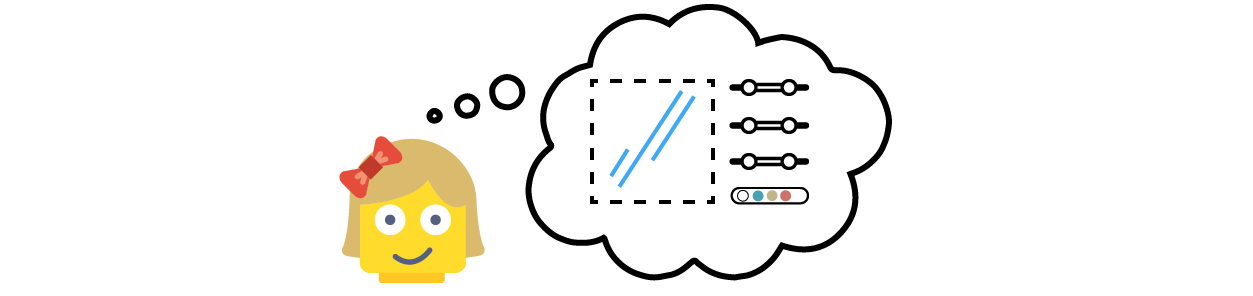
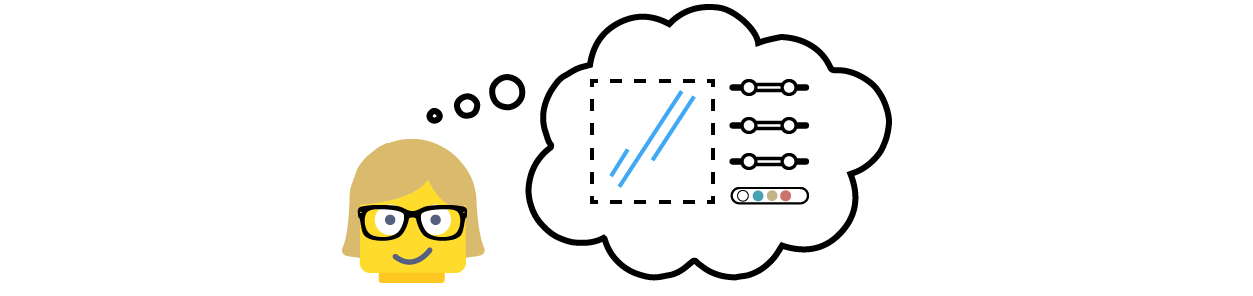
3.3 Paty Specific Comments anatomy of Each Stage
Wording diferences,
making girls in images a little bit older by adding glasses

Changed region(s): [[0.249, 0.4561, 0.3735, 0.8209]]

diff --git a/01-introduction/01-02_generative-design/01-02-03_what-goes-into-a-generative-design-process/01-02-03-01_anatomy-of-each-stage.md b/01-introduction/01-02_generative-design/01-02-03_what-goes-into-a-generative-design-process/01-02-03-01_anatomy-of-each-stage.md
@@ -1,6 +1,6 @@
 # Anatomy of each stage
 
-Each of these stages can be further broken down into _`define`_, _`run`_ and _`results`_ steps. The _`define`_ step is the responsibility of the designer whilst the _`run`_ & _`results`_ steps are performed by the machine.
+Each of these stages can be further broken down into _`define`_, _`run`_ and _`results`_ steps. The _`define`_ step is the responsibility of the designer while the _`run`_ & _`results`_ steps are performed by the machine.
 
 Using this breakdown, let's look at what the _`Generate`_ stage would entail.
 
@@ -10,16 +10,16 @@ Using this breakdown, let's look at what the _`Generate`_ stage would entail.
 
 For the _`define`_ step, the expertise of the designer is needed to
 
-* establish the generation algorithm: the logic defining how designs are generated, which may include things like constraints, rules, etc.
-* provide the generation parameters : the variables or inputs needed by the previously-defined algorithm
+* establish the generation algorithm: the logic defining how designs are generated, which may include things like constraints and rules.
+* provide the generation parameters: the variables or inputs needed by the previously-defined algorithm
 
-This _`define`_ step is present and vital for all stages of the generative design process, and the validity of outputs is reliant on the quality of the designer's contribution. Only with clear and concise logic, will the machine be able to provide suitable outputs.
+This _`define`_ step is present and vital for all stages of the generative design process, and the validity of outputs is reliant on the quality of the designer's contribution. With clear and concise logic, the computer can provide suitable outputs.
 
 ### Run
 
 <img src="../../../assets/intro/anatomy2.png" style="width:200px;"/>
 
-Once everything is defined in the algorithms & accompanying parameters, the machine begins to _`run`_, meaning it starts to generate different designs options. This process might happen locally on the designer's computer or, for more intensive calculations, run using cloud computing.
+Once everything is defined in the algorithms & accompanying parameters, the machine begins to _`run`_, meaning it starts to generate different design options. This process might happen locally on the designer's computer or, for more intensive calculations, run using cloud computing.
 
 ### Results
 
@@ -29,14 +29,14 @@ Things that are generated in the run step are the final results or outputs of ea
 
 ## Overall process
 
-We can map these stages & steps together in a single diagram to visualize the order they happen in and the dependencies between them.
+We can map these stages and steps together in a single diagram, this way we are able to visualize the order of each stage and their dependencies.
 
 <img src="../../../assets/intro/anatomy4.png" style="width:200px;"/>
 
-The diagram above should clearly illustrate how
+The diagram illustrates the following:
 
-* each stage & step are dependent on the previous one
-* the overall study process can be repeated, learning from each iteration
+* Each stage and step is dependent on the previous one.
+* The entire study process is repeatable, so that each iteration learns from the previous result.
 
 > Lego Faces: Icons made by Smashicons from www.flaticon.com
 
